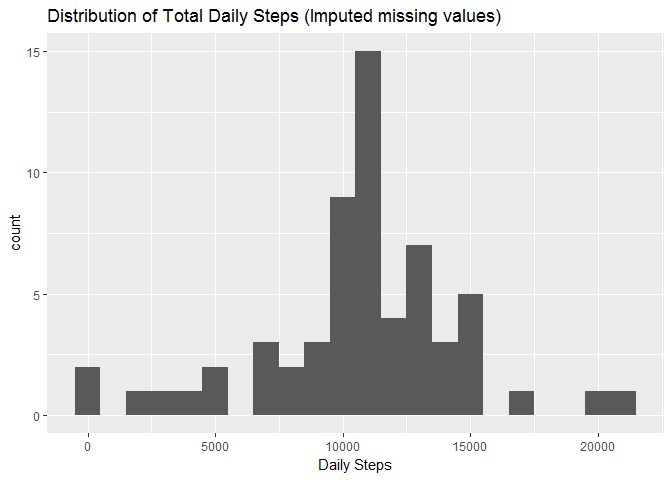
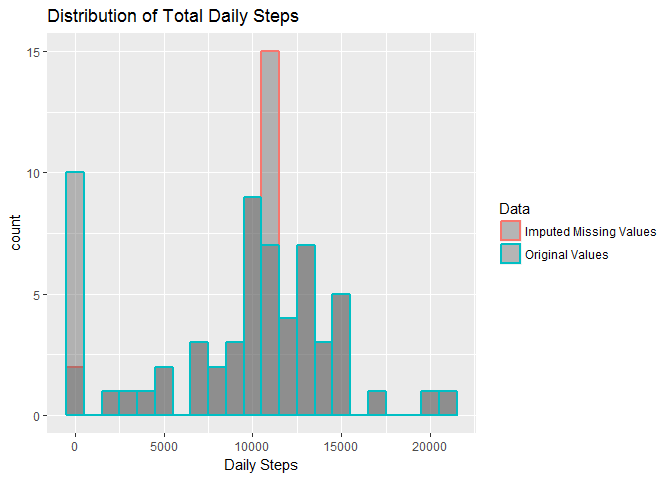
Completed Assignment

diff --git a/PA1_template.html b/PA1_template.html
@@ -11,7 +11,7 @@
 
 <meta name="author" content="Jeremy Voisey" />
 
-<meta name="date" content="2017-03-17" />
+<meta name="date" content="2017-03-19" />
 
 <title>Reproducible Research: Peer Assessment 1</title>
 
@@ -119,7 +119,7 @@ $(document).ready(function () {
 
 <h1 class="title toc-ignore">Reproducible Research: Peer Assessment 1</h1>
 <h4 class="author"><em>Jeremy Voisey</em></h4>
-<h4 class="date"><em>17 March 2017</em></h4>
+<h4 class="date"><em>19 March 2017</em></h4>
 
 </div>
 
@@ -160,7 +160,11 @@ ggplot(dailysteps, aes(x = dailysteps)) +
 <div id="the-mean-and-median-of-total-daily-steps" class="section level3">
 <h3>The mean and median of total daily steps</h3>
 <pre class="r"><code>mean_dailysteps &lt;- round(mean(dailysteps$dailysteps),0)
-median_dailysteps &lt;- median(dailysteps$dailysteps)</code></pre>
+mean_dailysteps</code></pre>
+<pre><code>## [1] 9354</code></pre>
+<pre class="r"><code>median_dailysteps &lt;- median(dailysteps$dailysteps)
+median_dailysteps</code></pre>
+<pre><code>## [1] 10395</code></pre>
 <p>The mean number of daily steps was 9354, the median was 10395</p>
 </div>
 </div>
@@ -178,7 +182,12 @@ ggplot(dailyactivity, aes(x = interval, y = averagesteps)) +
[1 lines of base64/hex data omitted]
 <div id="maximum-number-of-steps" class="section level4">
 <h4>Maximum number of steps</h4>
-<pre class="r"><code>maxinterval &lt;- dailyactivity[which.max(dailyactivity$averagesteps), &quot;interval&quot;]</code></pre>
+<pre class="r"><code>maxinterval &lt;- dailyactivity[which.max(dailyactivity$averagesteps), &quot;interval&quot;]
+maxinterval</code></pre>
+<pre><code>## # A tibble: 1 × 1
+##   interval
+##      &lt;int&gt;
+## 1      835</code></pre>
 <p>The interval containing the maximum number of steps on average was 835</p>
 </div>
 </div>
@@ -186,7 +195,11 @@ ggplot(dailyactivity, aes(x = interval, y = averagesteps)) +
 <div id="imputing-missing-values" class="section level2">
 <h2>Imputing missing values</h2>
 <pre class="r"><code>missingsteps &lt;- sum(is.na(activity$steps))
-rowcount &lt;- nrow(activity)</code></pre>
+missingsteps</code></pre>
+<pre><code>## [1] 2304</code></pre>
+<pre class="r"><code>rowcount &lt;- nrow(activity)
+rowcount</code></pre>
+<pre><code>## [1] 17568</code></pre>
 <p>There are 2304 rows, missing values out of 17568</p>
 <p>Missing values were filled in by assuming that the number of steps in that interval was equal to the average for that interval across all days</p>
 <pre class="r"><code># Make copy of activity data.frame
@@ -206,17 +219,28 @@ for (rown in whichna) {
 </div>
 <div id="the-distribution-of-total-daily-steps-using-imputed-data-set" class="section level3">
 <h3>The distribution of total daily steps using Imputed data set</h3>
-<pre class="r"><code>ggplot(filled_dailysteps, aes(x = dailysteps)) +
-    geom_histogram(binwidth = 1000) +
-    labs(x = &quot;Daily Steps&quot;, title = &quot;Distribution of Total Daily Steps (Imputed missing values)&quot;)</code></pre>
[1 lines of base64/hex data omitted]
+<p>Imputing missing values has the noticable effect of decreasing the the number of days with a count of zero (missing values are effectively treated as 0) and Increasing the number of days with 11000 steps.</p>
+<pre class="r"><code>combined_dailysteps &lt;- rbind(mutate(filled_dailysteps, Data = &quot;Imputed Missing Values&quot;),
+                             mutate(dailysteps, Data = &quot;Original Values&quot;))
+ggplot(combined_dailysteps, aes(x = dailysteps, colour = Data)) +
+    geom_histogram(binwidth = 1000, position = &quot;identity&quot;, alpha = 0.4, size = 1) +
+    labs(x = &quot;Daily Steps&quot;, title = &quot;Distribution of Total Daily Steps&quot;)</code></pre>
[1 lines of base64/hex data omitted]
 </div>
 <div id="the-mean-and-median-of-total-daily-steps-using-imputed-data-set" class="section level3">
 <h3>The mean and median of total daily steps using Imputed data set</h3>
 <pre class="r"><code>filled_mean_dailysteps &lt;- round(mean(filled_dailysteps$dailysteps), 0)
-filled_median_dailysteps &lt;- round(median(filled_dailysteps$dailysteps), 0)
-change_mean_dailysteps &lt;- round(filled_mean_dailysteps - mean_dailysteps, 0)
-change_median_dailysteps &lt;- round(filled_median_dailysteps - median_dailysteps, 0)</code></pre>
+filled_mean_dailysteps</code></pre>
+<pre><code>## [1] 10766</code></pre>
+<pre class="r"><code>filled_median_dailysteps &lt;- round(median(filled_dailysteps$dailysteps), 0)
+filled_median_dailysteps</code></pre>
+<pre><code>## [1] 10766</code></pre>
+<pre class="r"><code>change_mean_dailysteps &lt;- round(filled_mean_dailysteps - mean_dailysteps, 0)
+change_mean_dailysteps</code></pre>
+<pre><code>## [1] 1412</code></pre>
+<pre class="r"><code>change_median_dailysteps &lt;- round(filled_median_dailysteps - median_dailysteps, 0)
+change_median_dailysteps</code></pre>
+<pre><code>## [1] 371</code></pre>
 <p>The mean number of daily steps using imputed data was 10766. This is a change of 1412.</p>
 <p>The median was 10766. This is a change of 371.</p>
 </div>

diff --git a/PA1_template.md b/PA1_template.md
@@ -1,6 +1,6 @@
 # Reproducible Research: Peer Assessment 1
 Jeremy Voisey  
-17 March 2017  
+19 March 2017  
 
 
 
@@ -70,7 +70,20 @@ ggplot(dailysteps, aes(x = dailysteps)) +
 
 ```r
 mean_dailysteps <- round(mean(dailysteps$dailysteps),0)
+mean_dailysteps
+```
+
+```
+## [1] 9354
+```
+
+```r
 median_dailysteps <- median(dailysteps$dailysteps)
+median_dailysteps
+```
+
+```
+## [1] 10395
 ```
 
 The mean number of daily steps was 9354,
@@ -99,6 +112,14 @@ ggplot(dailyactivity, aes(x = interval, y = averagesteps)) +
 
 ```r
 maxinterval <- dailyactivity[which.max(dailyactivity$averagesteps), "interval"]
+maxinterval
+```
+
+```
+## # A tibble: 1 × 1
+##   interval
+##      <int>
+## 1      835
 ```
 
 The interval containing the maximum number of steps on average was 835
@@ -107,7 +128,20 @@ The interval containing the maximum number of steps on average was 835
 
 ```r
 missingsteps <- sum(is.na(activity$steps))
+missingsteps
+```
+
+```
+## [1] 2304
+```
+
+```r
 rowcount <- nrow(activity)
+rowcount
+```
+
+```
+## [1] 17568
 ```
 
 There are 2304 rows, missing values out of 17568
@@ -138,11 +172,17 @@ filled_dailysteps <- filled_activity %>%
 
 ### The distribution of total daily steps using Imputed data set
 
+Imputing missing values has the noticable effect of decreasing the the number
+of days with a count of zero (missing values are effectively treated as 0) and
+Increasing the number of days with 11000 steps.
+
 
 ```r
-ggplot(filled_dailysteps, aes(x = dailysteps)) +
-    geom_histogram(binwidth = 1000) +
-    labs(x = "Daily Steps", title = "Distribution of Total Daily Steps (Imputed missing values)")
+combined_dailysteps <- rbind(mutate(filled_dailysteps, Data = "Imputed Missing Values"),
+                             mutate(dailysteps, Data = "Original Values"))
+ggplot(combined_dailysteps, aes(x = dailysteps, colour = Data)) +
+    geom_histogram(binwidth = 1000, position = "identity", alpha = 0.4, size = 1) +
+    labs(x = "Daily Steps", title = "Distribution of Total Daily Steps")
 ```
 
 ![](PA1_template_files/figure-html/filled_histogram-1.png)<!-- -->
@@ -152,9 +192,38 @@ ggplot(filled_dailysteps, aes(x = dailysteps)) +
 
 ```r
 filled_mean_dailysteps <- round(mean(filled_dailysteps$dailysteps), 0)
+filled_mean_dailysteps
+```
+
+```
+## [1] 10766
+```
+
+```r
 filled_median_dailysteps <- round(median(filled_dailysteps$dailysteps), 0)
+filled_median_dailysteps
+```
+
+```
+## [1] 10766
+```
+
+```r
 change_mean_dailysteps <- round(filled_mean_dailysteps - mean_dailysteps, 0)
+change_mean_dailysteps
+```
+
+```
+## [1] 1412
+```
+
+```r
 change_median_dailysteps <- round(filled_median_dailysteps - median_dailysteps, 0)
+change_median_dailysteps
+```
+
+```
+## [1] 371
 ```
 
 The mean number of daily steps using imputed data was 10766.
